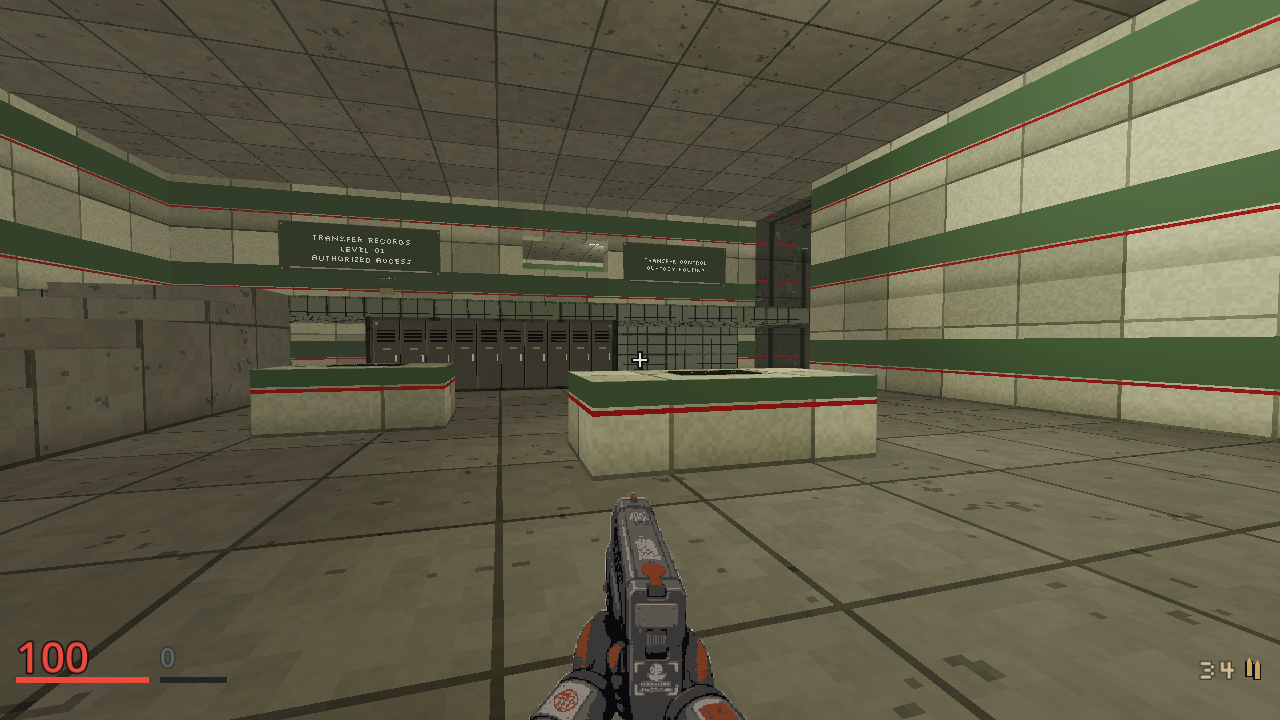
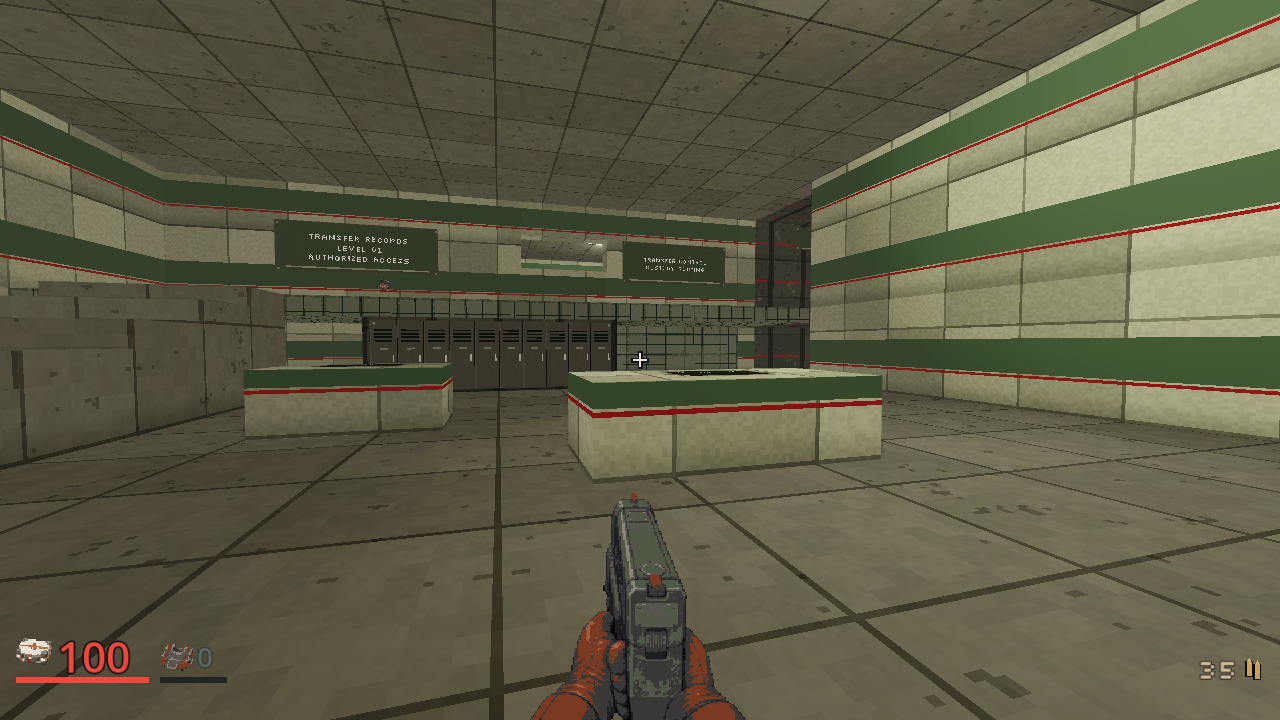
docs: refresh the Recall Notice intake still after the art pass

diff --git a/docs/screenshots/README.md b/docs/screenshots/README.md
@@ -184,6 +184,10 @@ OpenGL compatibility, AMD Radeon 780M, from the completed 13-state room tour
 after the Earth material integration. The actual intake still comes from
 `intake_sweepers`, with its counters, lockers and ordinary Pistol visible.
 Receipt: `.agents/qa/m01-textures-final/manifest.json`, clean exit and logs.
+On 2026-10-02 `m01_intake_16x9.png` was recaptured from the same `intake_sweepers`
+state after the [art pass](../plans/art-pass-20261002.md): the gloved Pistol and the
+health and armour icons are the changes. Receipt `.agents/qa/art-m01/manifest.json`,
+13 states, clean exit and logs; the other three M01 stills keep the 2026-10-01 capture.
 Earlier first-look frames remain in git history. Rooms are clearly lit by a warm
 base light with brighter pools under the strip-light fixtures: intake shows the
 counters and lockers with a pistol in hand; the balcony looks toward the custody
